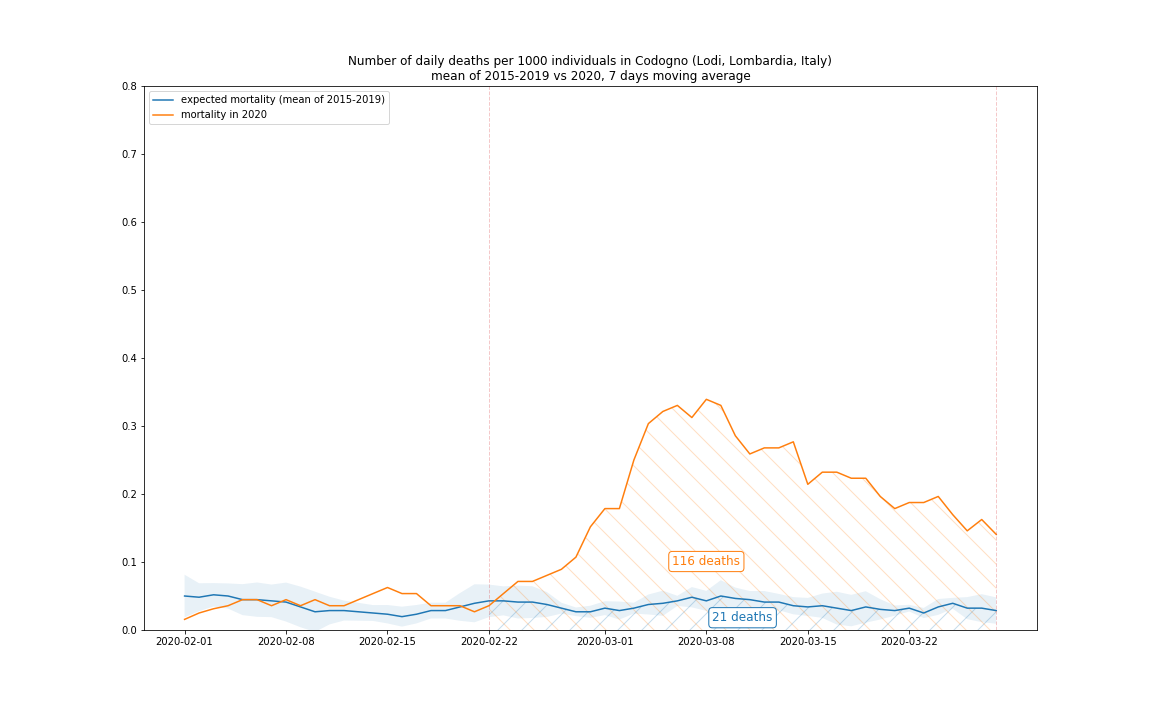
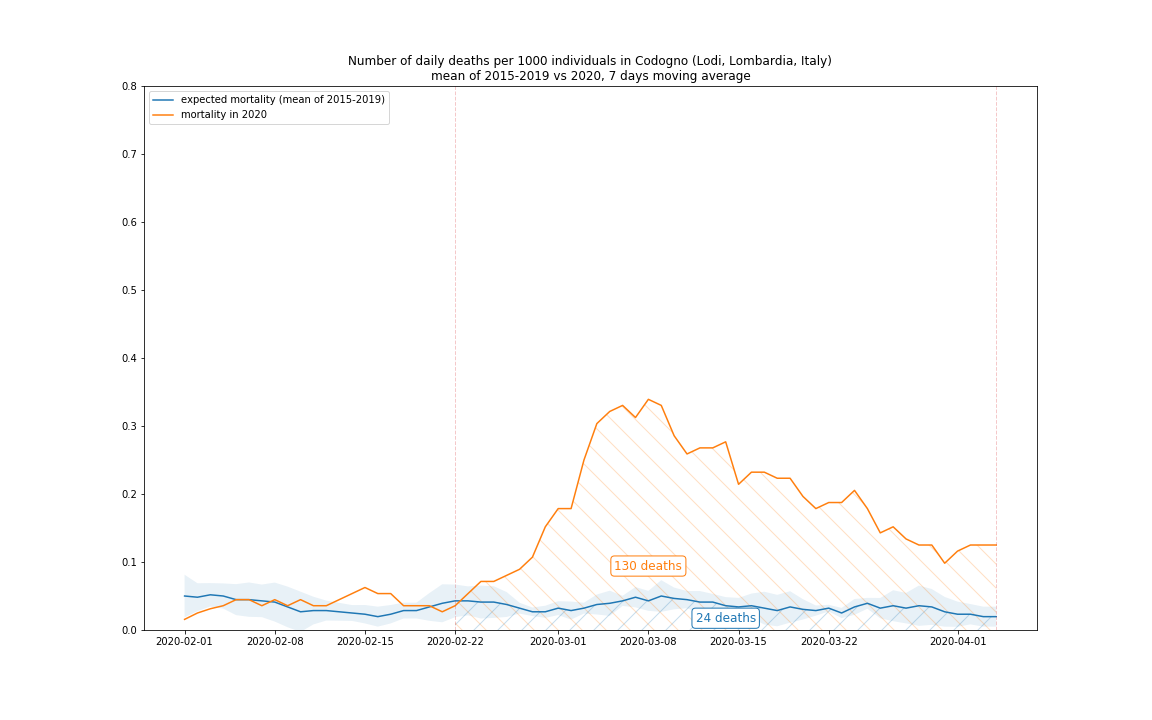
Updated with new data of ISTAT mortality, until 04/04/2020

diff --git a/mortality-covid19/README.md b/mortality-covid19/README.md
@@ -81,15 +81,18 @@ For different municipalities different "start date" was selected, i.e. when the 
 
 | municip.   |   population |             start date |   expected mortality |   actual mortality |   excess rate |           date of peak |                                 figure                                 |
 |:-----------|-------------:|-----------------------:|---------------------:|-------------------:|--------------:|-----------------------:|:----------------------------------------------------------------------:|
-| Nembro     |        11526 | 2020&#8209;02&#8209;20 |                   15 |                149 |          993% | 2020&#8209;03&#8209;10 |   ![Excess mortality in Nembro](figures/mortality-excess-nembro.png)   |
-| Albino     |        17805 | 2020&#8209;02&#8209;21 |                   15 |                141 |          940% | 2020&#8209;03&#8209;13 |   ![Excess mortality in Albino](figures/mortality-excess-albino.png)   |
-| Seriate    |        25385 | 2020&#8209;02&#8209;28 |                   16 |                123 |          769% | 2020&#8209;03&#8209;19 |  ![Excess mortality in Seriate](figures/mortality-excess-seriate.png)  |
-| Codogno    |        15991 | 2020&#8209;02&#8209;22 |                   20 |                116 |          580% | 2020&#8209;03&#8209;08 |  ![Excess mortality in Codogno](figures/mortality-excess-codogno.png)  |
-| Cremona    |        72680 | 2020&#8209;02&#8209;21 |                   87 |                342 |          393% | 2020&#8209;03&#8209;15 |  ![Excess mortality in Cremona](figures/mortality-excess-cremona.png)  |
-| Pesaro     |        94969 | 2020&#8209;02&#8209;21 |                  103 |                324 |          315% | 2020&#8209;03&#8209;20 |   ![Excess mortality in Pesaro](figures/mortality-excess-pesaro.png)   |
-| Piacenza   |       103942 | 2020&#8209;02&#8209;26 |                  117 |                417 |          356% | 2020&#8209;03&#8209;16 | ![Excess mortality in Piacenza](figures/mortality-excess-piacenza.png) |
-| Tortona    |        27291 | 2020&#8209;03&#8209;01 |                   27 |                101 |          374% | 2020&#8209;03&#8209;18 |  ![Excess mortality in Tortona](figures/mortality-excess-tortona.png)  |
-| Pavia      |        73086 | 2020&#8209;03&#8209;07 |                   50 |                 99 |          198% | 2020&#8209;03&#8209;22 |    ![Excess mortality in Pavia](figures/mortality-excess-pavia.png)    |
+| Nembro     |        11526 | 2020&#8209;02&#8209;20 |                   17 |                161 |          947% | 2020&#8209;03&#8209;10 |   ![Excess mortality in Nembro](figures/mortality-excess-nembro.png)   |
+| Albino     |        17805 | 2020&#8209;02&#8209;21 |                   18 |                166 |          922% | 2020&#8209;03&#8209;13 |   ![Excess mortality in Albino](figures/mortality-excess-albino.png)   |
+| Seriate    |        25385 | 2020&#8209;02&#8209;28 |                   19 |                137 |          721% | 2020&#8209;03&#8209;19 |  ![Excess mortality in Seriate](figures/mortality-excess-seriate.png)  |
+| Codogno    |        15991 | 2020&#8209;02&#8209;22 |                   23 |                130 |          565% | 2020&#8209;03&#8209;08 |  ![Excess mortality in Codogno](figures/mortality-excess-codogno.png)  |
+| Cremona    |        72680 | 2020&#8209;02&#8209;21 |                  102 |                407 |          399% | 2020&#8209;03&#8209;15 |  ![Excess mortality in Cremona](figures/mortality-excess-cremona.png)  |
+| Pesaro     |        94969 | 2020&#8209;02&#8209;21 |                  123 |                388 |          315% | 2020&#8209;03&#8209;20 |   ![Excess mortality in Pesaro](figures/mortality-excess-pesaro.png)   |
+| Piacenza   |       103942 | 2020&#8209;02&#8209;26 |                  141 |                512 |          363% | 2020&#8209;03&#8209;16 | ![Excess mortality in Piacenza](figures/mortality-excess-piacenza.png) |
+| Tortona    |        27291 | 2020&#8209;03&#8209;01 |                   34 |                121 |          356% | 2020&#8209;03&#8209;18 |  ![Excess mortality in Tortona](figures/mortality-excess-tortona.png)  |
+| Pavia      |        73086 | 2020&#8209;03&#8209;07 |                   66 |                141 |          214% | 2020&#8209;03&#8209;22 |    ![Excess mortality in Pavia](figures/mortality-excess-pavia.png)    |
+| Parma      |       196518 | 2020&#8209;03&#8209;07 |                  156 |                520 |          333% | 2020&#8209;03&#8209;20 |    ![Excess mortality in Parma](figures/mortality-excess-parma.png)    |
+| Brescia    |       198536 | 2020&#8209;03&#8209;07 |                  165 |                589 |          357% | 2020&#8209;03&#8209;20 |  ![Excess mortality in Brescia](figures/mortality-excess-brescia.png)  |
+| Milano     |      1378689 | 2020&#8209;03&#8209;07 |                 1085 |               1817 |          167% | 2020&#8209;03&#8209;24 |   ![Excess mortality in Milano](figures/mortality-excess-milano.png)   |
 
 You can download the excess mortality values and rate during March 2020 for all Italian municipalities with available data from [here](data/excess_mortality_march_2020.csv). 
 
@@ -109,23 +112,23 @@ This table shows:
 
 | region                |   pop. with data |   total pop. |   mean mortality |   std mortality |   rate |
 |:----------------------|-----------------:|-------------:|-----------------:|----------------:|-------:|
-| *Liguria*             |          1039816 |      1550640 |         1.133550 |        0.272155 |    67% |
-| *Lombardia*           |          6733446 |     10060574 |         0.807937 |        0.326400 |    67% |
-| *Emilia-Romagna*      |          2223875 |      4459477 |         0.896094 |        0.241489 |    50% |
-| *Veneto*              |          1652086 |      4905854 |         0.763848 |        0.237040 |    34% |
-| *Piemonte*            |          1414378 |      4356406 |         0.989329 |        0.242359 |    32% |
-| *Marche*              |           478153 |      1525271 |         0.930724 |        0.157216 |    31% |
-| Toscana               |          1030982 |      3729641 |         0.965044 |        0.239334 |    28% |
-| Umbria                |           211428 |       882015 |         0.877165 |        0.163836 |    24% |
-| Puglia                |           690710 |      4029053 |         0.773407 |        0.138124 |    17% |
-| Sardegna              |           262664 |      1639591 |         0.783619 |        0.201355 |    16% |
-| Abruzzo               |           170540 |      1311580 |         0.887098 |        0.218837 |    13% |
-| Molise                |            26577 |       305617 |         0.898736 |        0.204003 |     9% |
-| Sicilia               |           332775 |      4999891 |         0.860298 |        0.292168 |     7% |
-| Basilicata            |            35507 |       562869 |         0.953534 |        0.313202 |     6% |
-| Campania              |           198997 |      5801692 |         0.715876 |        0.225189 |     3% |
-| Calabria              |            58593 |      1947131 |         0.851881 |        0.321465 |     3% |
-| Lazio                 |           172113 |      5879082 |         0.807775 |        0.150375 |     3% |
+| *Lombardia*           |          7252549 |     10060574 |         0.993688 |        0.349833 |    72% |
+| *Liguria*             |          1071658 |      1550640 |         1.40127  |        0.281436 |    69% |
+| *Emilia-Romagna*      |          2718973 |      4459477 |         1.12105  |        0.281772 |    61% |
+| *Veneto*              |          2002736 |      4905854 |         0.956235 |        0.285533 |    41% |
+| *Piemonte*            |          1693222 |      4356406 |         1.21317  |        0.303251 |    39% |
+| Marche                |           513284 |      1525271 |         1.1562   |        0.182859 |    34% |
+| Toscana               |          1174102 |      3729641 |         1.20464  |        0.284194 |    31% |
+| Umbria                |           211428 |       882015 |         1.08825  |        0.19936  |    24% |
+| Sardegna              |           388492 |      1639591 |         0.933058 |        0.250507 |    24% |
+| Puglia                |           749628 |      4029053 |         0.970157 |        0.160312 |    19% |
+| Abruzzo               |           170540 |      1311580 |         1.1116   |        0.266636 |    13% |
+| Molise                |            26577 |       305617 |         1.08042  |        0.317319 |     9% |
+| Basilicata            |            46649 |       562869 |         1.28498  |        0.413294 |     8% |
+| Sicilia               |           361721 |      4999891 |         1.07068  |        0.330909 |     7% |
+| Calabria              |            98955 |      1947131 |         1.05185  |        0.347759 |     5% |
+| Campania              |           258209 |      5801692 |         0.896063 |        0.263229 |     4% |
+| Lazio                 |           184596 |      5879082 |         0.993831 |        0.166596 |     3% |
 | Friuli Venezia Giulia |                0 |      1215220 |         0        |        0        |     0% |
 | Trentino-Alto Adige   |                0 |      1072276 |         0        |        0        |     0% |
 | Valle d'Aosta         |                0 |       125666 |         0        |        0        |     0% |
@@ -149,13 +152,13 @@ The following figure shows the daily excess mortality (calculated subtracting th
 In the following table we list the estimated excess mortalities on a region level for March 2020 (since at the time of the writing official data will not be available) and compare it to the official number of COVID-19 victims. 
 
 | region         |   excess mortality |   official COVID-19 deaths |   rate |           date of peak |                                                     figure                                                     |
-|:---------------|-------------------:|------------------------:|-------:|-----------------------:|:--------------------------------------------------------------------------------------------------------------:|
-| Lombardia      |              14053 |                    5938 |   237% | 2020&#8209;03&#8209;20 |      ![Excess mortality and official COVID-19 deaths in Lombardia](figures/mortality-covid-lombardia.png)      |
-| Veneto         |               1768 |                     360 |   491% | 2020&#8209;03&#8209;18 |         ![Excess mortality and official COVID-19 deaths in Veneto](figures/mortality-covid-veneto.png)         |
-| Emilia-Romagna |               4350 |                    1344 |   324% | 2020&#8209;03&#8209;21 | ![Excess mortality and official COVID-19 deaths in Emilia-Romagna](figures/mortality-covid-emilia-romagna.png) |
-| Piemonte       |               3218 |                     617 |   522% | 2020&#8209;03&#8209;27 |       ![Excess mortality and official COVID-19 deaths in Piemonte](figures/mortality-covid-piemonte.png)       |
-| Liguria        |                574 |                     358 |   160% | 2020&#8209;03&#8209;19 |        ![Excess mortality and official COVID-19 deaths in Liguria](figures/mortality-covid-liguria.png)        |
-| Marche         |               1265 |                     364 |   348% | 2020&#8209;03&#8209;21 |         ![Excess mortality and official COVID-19 deaths in Marche](figures/mortality-covid-marche.png)         |
+|:---------------|-------------------:|---------------------------:|-------:|-----------------------:|:--------------------------------------------------------------------------------------------------------------:|
+| Lombardia      |              17917 |                       8650 |   207% | 2020&#8209;03&#8209;22 |      ![Excess mortality and official COVID-19 deaths in Lombardia](figures/mortality-covid-lombardia.png)      |
+| Veneto         |               2235 |                        605 |   369% | 2020&#8209;03&#8209;23 |         ![Excess mortality and official COVID-19 deaths in Veneto](figures/mortality-covid-veneto.png)         |
+| Emilia-Romagna |               4845 |                       1977 |   245% | 2020&#8209;03&#8209;21 | ![Excess mortality and official COVID-19 deaths in Emilia-Romagna](figures/mortality-covid-emilia-romagna.png) |
+| Piemonte       |               4012 |                       1128 |   356% | 2020&#8209;03&#8209;25 |       ![Excess mortality and official COVID-19 deaths in Piemonte](figures/mortality-covid-piemonte.png)       |
+| Liguria        |               1093 |                        542 |   202% | 2020&#8209;03&#8209;21 |        ![Excess mortality and official COVID-19 deaths in Liguria](figures/mortality-covid-liguria.png)        |
+| Marche         |               1657 |                        574 |   289% | 2020&#8209;03&#8209;21 |         ![Excess mortality and official COVID-19 deaths in Marche](figures/mortality-covid-marche.png)         |
 
 It is also worth to pay attention to the "start date" in the table of the sampled municipalities. This date shows when the actual mortality stepped out from the confidence interval of the expected mortality and started to trend upwards. According to the [Italian National Institute of Health](https://www.epicentro.iss.it/coronavirus/) the median time from the onset of symptoms to the eventual deaths is 10 days. The most commonly cited incubation period of COVID-19 is 6-7 days. Subtracting the median incubation period and duration of illness from these dates suggests that the coronavirus disease was widely spread as early as the first days of February 2020 at least in some provinces of Lombardy (for example in Bergamo, Cremona, Pesaro and Lodi). The first endemic cluster was identified only on [21st February](https://en.wikipedia.org/wiki/2020_coronavirus_pandemic_in_Italy) in the city Codogno (province of Lodi).
 
